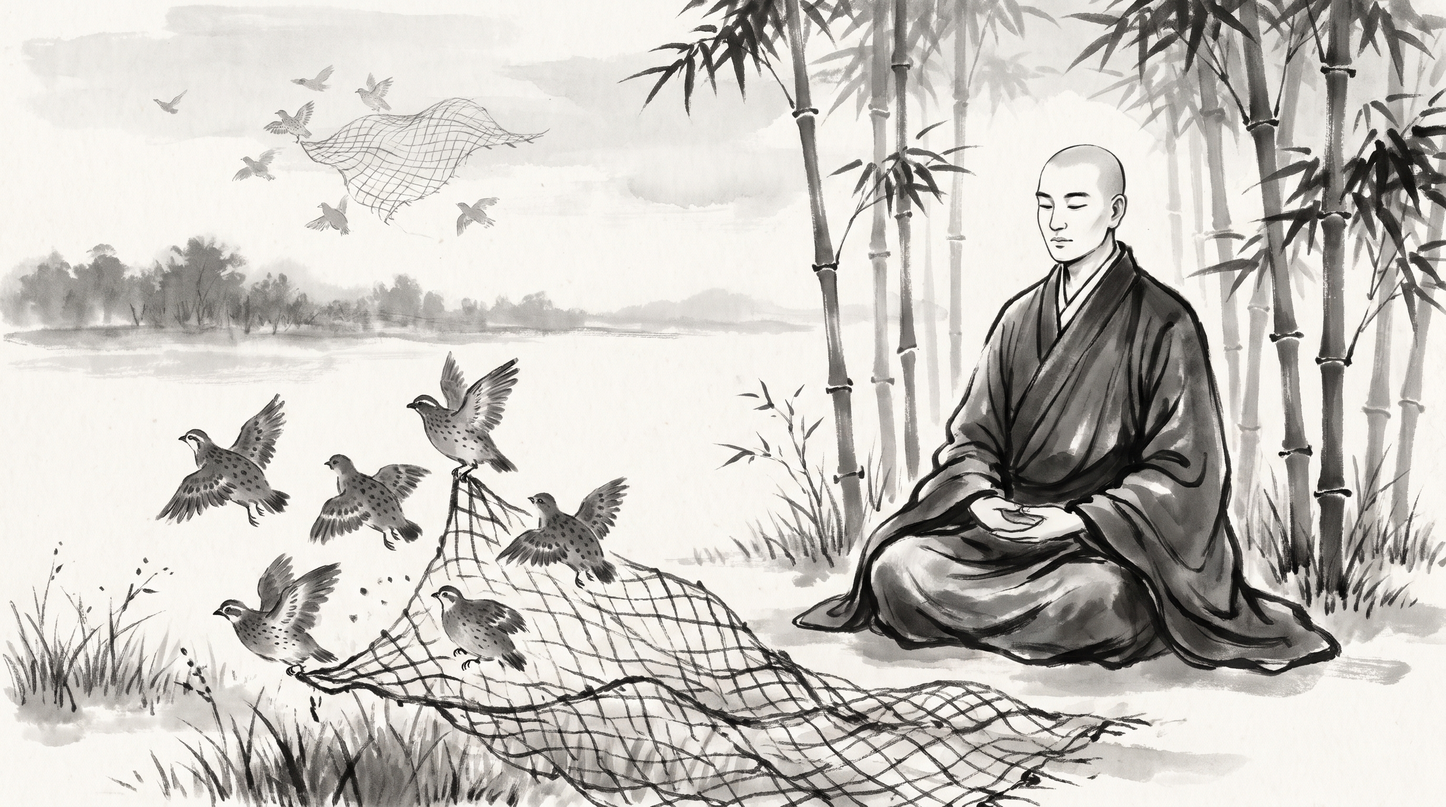
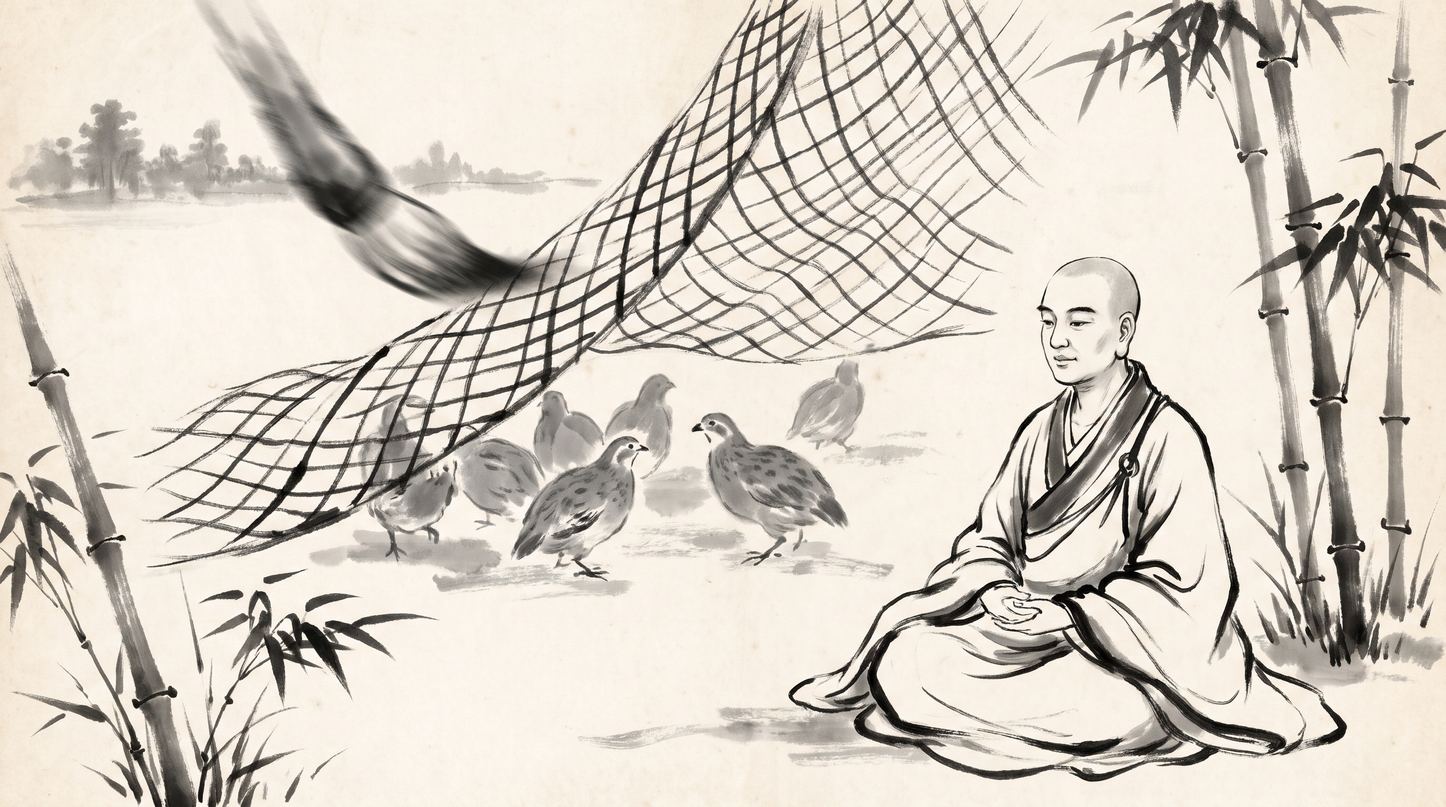
feat(daily-story): publish 'The United Quail: Defeating the Fowler Through Peer Solidarity' (ticket: ms-4ta9)

diff --git a/.tickets/ms-4ta9.md b/.tickets/ms-4ta9.md
@@ -1,6 +1,6 @@
 ---
 id: ms-4ta9
-status: in_progress
+status: closed
 deps: []
 links: []
 created: 2026-11-11T22:32:29Z
@@ -13,3 +13,9 @@ parent: ms-3lwv
 
 Solidarity among peers when hunted by a predator
 
+
+## Notes
+
+**2026-11-11T22:32:51Z**
+
+Successfully published 2026-11-11-the-quail-and-the-fowler.md with illustration and verified via validators and mkdocs build.
